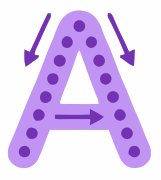
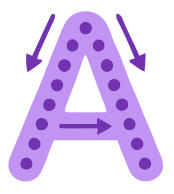
Animado imagenes primera ventana

diff --git a/App.tsx b/App.tsx
@@ -1,8 +1,9 @@
-import React, { useEffect, useRef } from "react";
-import { View, StyleSheet, Image, TouchableOpacity, Animated } from "react-native";
+import React, { useEffect, useRef, useState } from "react";
+import { View, StyleSheet, Image, TouchableOpacity, Animated,Easing } from "react-native";
 import { scale, verticalScale } from "react-native-size-matters";
+import Menu from './asset/componentes/menu';
 
-const Inicio = ({ navigation }) => {
+const Inicio = ({ irAMenu }) => {
   const animacionA = useRef(new Animated.Value(0)).current;
   const animacionE = useRef(new Animated.Value(0)).current;
   const animacionI = useRef(new Animated.Value(0)).current;
@@ -10,8 +11,15 @@ const Inicio = ({ navigation }) => {
   const animacionU = useRef(new Animated.Value(0)).current;
   const latidoPlay = useRef(new Animated.Value(1)).current;
 
+  const animacionAvion = useRef(new Animated.Value(0)).current;
+  const animacionEstrella = useRef(new Animated.Value(0)).current;
+  const animacionIglu = useRef(new Animated.Value(0)).current;
+  const animacionCaraOso = useRef(new Animated.Value(-1)).current;
+  const animacionUvas = useRef(new Animated.Value(1)).current;
+ 
+
   useEffect(() => {
-//Efecto cascada
+    // Efecto cascada
     Animated.stagger(200, [
       Animated.timing(animacionA, { toValue: 1, duration: 1000, useNativeDriver: true }),
       Animated.timing(animacionE, { toValue: 1, duration: 1000, useNativeDriver: true }),
@@ -34,96 +42,165 @@ const Inicio = ({ navigation }) => {
         })
       ])
     ).start();
-  }, []);
 
+    // ********animacion del Avion***********
+    Animated.loop(
+      Animated.sequence([
+        Animated.timing(animacionAvion, { toValue: 1, duration: 3000, easing: Easing.linear, useNativeDriver: true }),
+        Animated.timing(animacionAvion, { toValue: -1, duration: 6000, easing: Easing.linear, useNativeDriver: true }), 
+        Animated.timing(animacionAvion, { toValue: 0, duration: 3000, easing: Easing.linear, useNativeDriver: true }), 
+      ])
+    ).start();
+
+    //**************animacion de estrella ****************
+    Animated.loop(
+      Animated.timing(animacionEstrella, { toValue: 1, duration: 4000, easing: Easing.linear, useNativeDriver: true }) 
+    ).start();
+
+//************** animacion iglu***********************
+   Animated.loop(
+      Animated.sequence([
+        Animated.timing(animacionIglu, { toValue: 1, duration: 2500, useNativeDriver: true }),
+        Animated.timing(animacionIglu, { toValue: -1, duration: 2500, useNativeDriver: true }), 
+      ])
+    ).start(); 
+
+    //******************animacion cara oso **********************
+    Animated.loop(
+      Animated.sequence([
+        Animated.timing(animacionCaraOso, { toValue: 1, duration: 150, useNativeDriver: true }), 
+        Animated.timing(animacionCaraOso, { toValue: -1, duration: 150, useNativeDriver: true }), 
+      ])
+    ).start();
+
+    //****************animacion uvas **********************
+    Animated.loop(
+      Animated.sequence([
+        Animated.timing(animacionUvas, { toValue: 1.05, duration: 1200, useNativeDriver: true }), // Crece sutilmente
+        Animated.timing(animacionUvas, { toValue: 1, duration: 1200, useNativeDriver: true }), // Vuelve a su tamaño normal
+      ])
+    ).start();
+  }, []);
 
   // LETRA A 
   const translateY_A = animacionA.interpolate({ inputRange: [0, 1], outputRange: [200, 0] });
   const rotate_A = animacionA.interpolate({ inputRange: [0, 1], outputRange: ['0deg', '-60deg'] });
   const opacity_A = animacionA.interpolate({ inputRange: [0, 1], outputRange: [0, 1] });
 
-  //  LETRA E 
+  // LETRA E 
   const translateY_E = animacionE.interpolate({ inputRange: [0, 1], outputRange: [200, 0] });
   const rotate_E = animacionE.interpolate({ inputRange: [0, 1], outputRange: ['0deg', '-35deg'] });
   const opacity_E = animacionE.interpolate({ inputRange: [0, 1], outputRange: [0, 1] });
 
-  //  LETRA I 
+  // LETRA I 
   const translateY_I = animacionI.interpolate({ inputRange: [0, 1], outputRange: [200, 0] });
   const rotate_I = animacionI.interpolate({ inputRange: [0, 1], outputRange: ['0deg', '0deg'] });
   const opacity_I = animacionI.interpolate({ inputRange: [0, 1], outputRange: [0, 1] });
 
-  //  LETRA O 
+  // LETRA O 
   const translateY_O = animacionO.interpolate({ inputRange: [0, 1], outputRange: [200, 0] });
   const rotate_O = animacionO.interpolate({ inputRange: [0, 1], outputRange: ['0deg', '35deg'] });
   const opacity_O = animacionO.interpolate({ inputRange: [0, 1], outputRange: [0, 1] });
 
-  //  LETRA U 
+  // LETRA U 
   const translateY_U = animacionU.interpolate({ inputRange: [0, 1], outputRange: [200, 0] });
   const rotate_U = animacionU.interpolate({ inputRange: [0, 1], outputRange: ['0deg', '60deg'] });
   const opacity_U = animacionU.interpolate({ inputRange: [0, 1], outputRange: [0, 1] });
+
+
+  // Avion mueve horizontal
+  const translateX_Avion = animacionAvion.interpolate({
+    inputRange: [-1, 0, 1],
+    outputRange: [scale(-15), 0, scale(15)] 
+  });
+
+  //Estrella gira
+  const rotate_Estrella = animacionEstrella.interpolate({
+    inputRange: [0, 1],
+    outputRange: ['0deg', '360deg'] 
+  });
+
+  // Iglu mueve vertical
+  const translateY_Iglu = animacionIglu.interpolate({
+    inputRange: [-1, 1],
+    outputRange: [verticalScale(-5), verticalScale(5)]
+  });
+
+  // Cara oso mueve
+  const rotate_CaraOso = animacionCaraOso.interpolate({
+    inputRange: [-1, 1],
+    outputRange: ['-10deg', '10deg'] 
+  });
+
 
   return (
     <View style={estilos.contPrin}>
       <View style={estilos.contVoc}>
         
-        <Animated.Image
-          source={require('./frontend/image/A.png')}
-          style={[ estilos.vocBase, estilos.posA, { opacity: opacity_A, transform: [{ translateY: translateY_A }, { rotate: rotate_A }] } ]}
-        />
+        <Animated.Image source={require('./frontend/image/A.png')} style={[ estilos.vocBase, estilos.posA, { opacity: opacity_A, transform: [{ translateY: translateY_A }, { rotate: rotate_A }] } ]} />
+        <Animated.Image source={require('./frontend/image/Avion.png')} style={[ estilos.objBase, estilos.posAvion, { transform: [{ translateX: translateX_Avion }] } ]} />
 
-        <Animated.Image
-          source={require('./frontend/image/E.png')}
-          style={[ estilos.vocBase, estilos.posicionE, { opacity: opacity_E, transform: [{ translateY: translateY_E }, { rotate: rotate_E }] } ]}
-        />
+        <Animated.Image source={require('./frontend/image/E.png')} style={[ estilos.vocBase, estilos.posicionE, { opacity: opacity_E, transform: [{ translateY: translateY_E }, { rotate: rotate_E }] } ]} />
+        <Animated.Image source={require('./frontend/image/Estrella.png')} style={[ estilos.objBase, estilos.posEstrella, { transform: [{ rotate: rotate_Estrella }] } ]} />        
         
-        <Animated.Image
-          source={require('./frontend/image/I1.png')}
-          style={[ estilos.vocBase, estilos.posicionI, { opacity: opacity_I, transform: [{ translateY: translateY_I }, { rotate: rotate_I }] } ]}
-        />
-      <Animated.View
-      style={[estilos.contPlay, estilos.Play, 
-      { transform: [{ scale: latidoPlay }] }
-      ]}>
-        <TouchableOpacity
-          style={{ width: '100%', height: '100%' }}
-          onPress={() => navigation.navigate('Menu')}> 
-          <Image
-            source={require('./frontend/image/Play.png')}
-            style={{ width: '100%', height: '100%', resizeMode: 'contain' }}
-          />
-        </TouchableOpacity>
+        <Animated.Image source={require('./frontend/image/I1.png')} style={[ estilos.vocBase, estilos.posicionI, { opacity: opacity_I, transform: [{ translateY: translateY_I }, { rotate: rotate_I }] } ]} />
+        <Animated.Image source={require('./frontend/image/Iglu.png')} style={[ estilos.objBase, estilos.posicionIglu, { transform: [{ translateY: translateY_Iglu }] } ]} />
+
+        <Animated.View style={[estilos.contPlay, estilos.Play, { transform: [{ scale: latidoPlay }] }]}>
+          <TouchableOpacity
+            style={{ width: '100%', height: '100%' }}
+            onPress={irAMenu}> 
+            <Image
+              source={require('./frontend/image/Play.png')}
+              style={{ width: '100%', height: '100%', resizeMode: 'contain' }}
+            />
+          </TouchableOpacity>
         </Animated.View>
 
-        <Animated.Image
-          source={require('./frontend/image/O.png')}
-          style={[ estilos.vocBase, estilos.posicionO, { opacity: opacity_O, transform: [{ translateY: translateY_O }, { rotate: rotate_O }] } ]}
-        />
-        
-        <Animated.Image
-          source={require('./frontend/image/U.png')}
-          style={[ estilos.vocBase, estilos.posicionU, { opacity: opacity_U, transform: [{ translateY: translateY_U }, { rotate: rotate_U }] } ]}
-        />
+        <Animated.Image source={require('./frontend/image/O.png')} style={[ estilos.vocBase, estilos.posicionO, { opacity: opacity_O, transform: [{ translateY: translateY_O }, { rotate: rotate_O }] } ]} />
+        <Animated.Image source={require('./frontend/image/Cara_Oso1.png')} style={[ estilos.objBase, estilos.posicionCara_Oso, { transform: [{ rotate: rotate_CaraOso }] } ]} />
+
+        <Animated.Image source={require('./frontend/image/U.png')} style={[ estilos.vocBase, estilos.posicionU, { opacity: opacity_U, transform: [{ translateY: translateY_U }, { rotate: rotate_U }] } ]} />
+        <Animated.Image source={require('./frontend/image/Uvas.png')} style={[ estilos.objBase, estilos.posicionUvas, { transform: [{ scale: animacionUvas }] } ]} />
 
       </View>
     </View>
   );
 };
 
-export default Inicio;
+export default function App() {
+  const [pantallaActual, setPantallaActual] = useState('Inicio');
+
+  if (pantallaActual === 'Menu') {
+    return (
+      <Menu /> 
+    );
+  }
+
+  return (
+    <Inicio irAMenu={() => setPantallaActual('Menu')} />
+  );
+}
 
 const estilos = StyleSheet.create({
   contPrin: {
     flex: 1,
-    backgroundColor: '#ae56b6',
+    backgroundColor: '#f1c9f5',
   },
   contVoc: {
     flex: 1,
-    backgroundColor: '#ae56b6',
+    backgroundColor: '#f1c9f5',
     position: 'relative'
   },
   vocBase: {
-    width: scale(55),
-    height: verticalScale(55),
+    width: scale(65),
+    height: verticalScale(65),
+    resizeMode: 'contain',
+    position: 'absolute'
+  },
+  objBase: {
+    width: scale(60),
+    height: verticalScale(60),
     resizeMode: 'contain',
     position: 'absolute'
   },
@@ -131,12 +208,25 @@ const estilos = StyleSheet.create({
     top: '60%',
     left: '15%',
   },
+    posAvion: {
+    top: '70%',
+    left: '25%',
+  },
   posicionE: {
     top: '25%',
     left: '27%',
   },
+    posEstrella: {
+    top: '12%',
+    left: '22%',
+  },
   posicionI: {
-    top: '15%',
+    top: '8%',
+    left: '45%',
+    
+  },
+    posicionIglu: {
+    top: '28%',
     left: '45%',
     
   },
@@ -144,17 +234,25 @@ const estilos = StyleSheet.create({
     top: '25%',
     right: '27%',
   },
+    posicionCara_Oso: {
+    top: '9%',
+    right: '24%',
+  },
   posicionU: {
     top: '62%',
     right: '17%',
   },
+    posicionUvas: {
+    top: '68%',
+    right: '27%',
+  },
   contPlay: {
-    width: scale(80),
-    height: verticalScale(80),
+    width: scale(90),
+    height: verticalScale(90),
     position: 'absolute'
   },
   Play: {
-    top: '54%',
+    top: '48%',
     left: '43%',
   },
 });

diff --git a/asset/componentes/menu.js b/asset/componentes/menu.js
@@ -1,0 +1,28 @@
+import React, { useEffect, useRef } from "react";
+import { View, StyleSheet, Image, TouchableOpacity, Animated } from "react-native";
+import { scale, verticalScale } from "react-native-size-matters";
+
+const Menu = ({navigation}) => {
+const DIAMETRO_CIRCULO = moderateScale(110);
+const COLOR_BORDE = '#3151A5';
+ return (
+    <View style={estilos.contPrin}>
+      <View style={estilos.contVoc}>
+
+      </View>
+      </View>
+   );
+};
+export default Menu;
+
+const estilos = StyleSheet.create({
+  contPrin: {
+    flex: 1,
+    backgroundColor: '#ae56b6',
+  },
+  contVoc: {
+    flex: 1,
+    backgroundColor: '#ae56b6',
+    position: 'relative'
+  }
+  });
